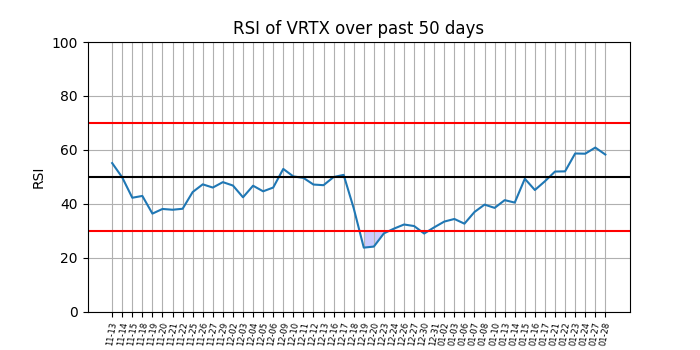
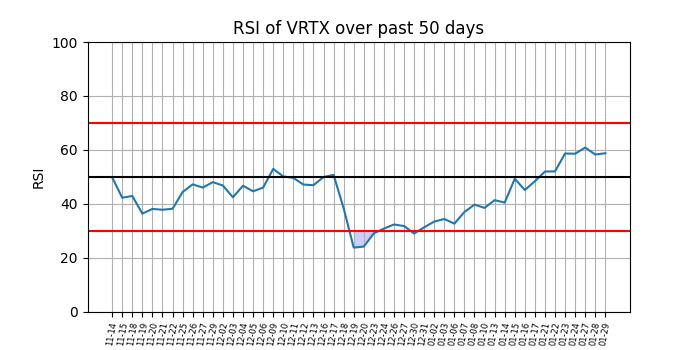
update plots

Changed region(s): [[0.15, 0.4, 0.87, 0.7143], [0.15, 0.9143, 0.87, 1.0]]

diff --git a/_posts/2025-01-29-KTOS.md b/_posts/2025-01-29-KTOS.md
@@ -2,7 +2,7 @@
 layout: post
 title: "KTOS"
 company: Kratos Defense & Security Solutions Inc.
-date: 2025-01-28 -0500
+date: 2025-01-29 -0500
 categories: defense
 ---
 

diff --git a/_posts/2025-01-29-VRTX.md b/_posts/2025-01-29-VRTX.md
@@ -2,7 +2,7 @@
 layout: post
 title: "VRTX"
 company: Vertex Pharma Inc.
-date: 2025-01-28 -0500
+date: 2025-01-29 -0500
 categories: biotech
 ---
 

diff --git a/_posts/2025-01-29-GH.md b/_posts/2025-01-29-GH.md
@@ -2,7 +2,7 @@
 layout: post
 title: GH
 company: Guardiant Health
-date: 2025-01-28 -0500
+date: 2025-01-29 -0500
 categories: biotech
 ---
 

diff --git a/_posts/2025-01-29-LYFT.md b/_posts/2025-01-29-LYFT.md
@@ -2,7 +2,7 @@
 layout: post
 title: "LYFT"
 company: Lyft Inc.
-date: 2025-01-28 -0500
+date: 2025-01-29 -0500
 categories: consumer
 ---
 
